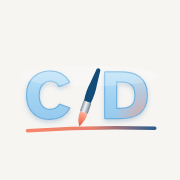
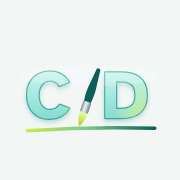
Give C/D its own tear-film palette
Teal glass logo with a fluorescein yellow-green glow, teal buttons and
selection tones, with matching icons, preview image and app colours.
The clinical colour code on the chart is unchanged.

Claude-Session: https://claude.ai/code/session_01DeznFUEiZrXsvmLukoU2jM

diff --git a/index.html b/index.html
@@ -5,8 +5,8 @@
 <meta name="viewport" content="width=device-width, initial-scale=1, viewport-fit=cover">
 <title>C/D</title>
 <meta name="description" content="Corneal drawing in the standard slit-lamp colour code: ulcers traced by finger, thinning carved in cross-section, width × height dimensions, the 1-2-3 rule, microbiology with sensitivities, QR codes that redraw a cornea on any device, and an auto-written note. Works offline.">
-<meta name="theme-color" content="#F6F5F2" media="(prefers-color-scheme: light)">
-<meta name="theme-color" content="#0E1620" media="(prefers-color-scheme: dark)">
+<meta name="theme-color" content="#F2F7F6" media="(prefers-color-scheme: light)">
+<meta name="theme-color" content="#0B1A1B" media="(prefers-color-scheme: dark)">
 <link rel="manifest" href="manifest.webmanifest">
 <link rel="icon" href="icons/favicon-32.png" sizes="32x32" type="image/png">
 <link rel="icon" href="icons/icon-192.png" sizes="192x192" type="image/png">
@@ -26,7 +26,7 @@
 <style>
 :root{color-scheme:light;box-sizing:border-box;padding-top:env(safe-area-inset-top,0px);padding-bottom:env(safe-area-inset-bottom,0px)}
 html{scroll-padding-top:env(safe-area-inset-top,0px)}
-body{margin:0;padding:0;font:14px -apple-system,BlinkMacSystemFont,sans-serif;background:#F6F5F2;color:#13324F}
+body{margin:0;padding:0;font:14px -apple-system,BlinkMacSystemFont,sans-serif;background:#F2F7F6;color:#13324F}
 img{max-width:100%}
 [hidden]:not([hidden=until-found i]){display:none!important}
 @font-face { font-family: "Atkinson Hyperlegible"; font-style: normal; font-weight: 400; font-display: swap; src: url(fonts/atkinson-hyperlegible-latin-400-normal.woff2) format("woff2"); }
@@ -38,49 +38,51 @@ img{max-width:100%}
 </head>
 <body>
 <style>
-/* Layout: the R/D exam-room clipboard — corneal chart is the hero on the left, the dictation console on the right; stacks on phones. */
+/* Layout: exam-room clipboard — corneal chart is the hero on the left, the dictation console on the right; stacks on phones.
+   Palette "tear film": clear teal for the ocular surface, a fluorescein yellow-green glow as the accent. */
 :root {
-  --bg: #F6F5F2;
+  --bg: #F2F7F6;
   --surface: #FFFFFF;
-  --surface-2: #FAF9F6;
-  --ink: #13324F;
-  --ink-2: #44566A;
-  --muted: #6E7C8A;
-  --line: #E3E0D8;
-  --line-2: #EFECE6;
-  --navy: #124C78;
-  --coral: #EF7A5F;
-  --red-hi: #FF8E7A;
-  --red-lo: #DE4239;
-  --focus: #2C66C4;
+  --surface-2: #F8FBFA;
+  --ink: #0F3B40;
+  --ink-2: #3E5C60;
+  --muted: #687F81;
+  --line: #D9E5E2;
+  --line-2: #E7EFED;
+  --navy: #0D6E68;          /* primary: deep tear-film teal */
+  --coral: #C9A20E;         /* accent: fluorescein gold, for small marks */
+  --red-hi: #43C9BC;        /* glass buttons, top */
+  --red-lo: #0E8B83;        /* glass buttons, bottom */
+  --glow: #D8EE5A;          /* fluorescein glow */
+  --focus: #127C8C;
   --ok: #2F7A4B;
   --ok-bg: #E8F4EC;
   --warn: #9A5B0E;
   --warn-bg: #FFF4E2;
-  --chip-bg: #F2F6FB;
-  --sel-bg: #FFF1DC;
-  --sel-line: #E4A13E;
-  --sel-ink: #7A4A0B;
+  --chip-bg: #E9F5F2;
+  --sel-bg: #FBF8D9;
+  --sel-line: #C9B22A;
+  --sel-ink: #5E5208;
   --paper: #FFFDF8;
-  --logo-script: #124C78;
-  --shadow: 0 1px 2px rgba(19, 50, 79, 0.06), 0 8px 24px rgba(19, 50, 79, 0.06);
+  --logo-script: #0D5E59;
+  --shadow: 0 1px 2px rgba(13, 70, 66, 0.06), 0 8px 24px rgba(13, 70, 66, 0.07);
   --font-ui: "Atkinson Hyperlegible", "Segoe UI", system-ui, -apple-system, sans-serif;
   --font-mono: "IBM Plex Mono", ui-monospace, SFMono-Regular, Menlo, Consolas, monospace;
   --radius: 14px;
 }
 @media (prefers-color-scheme: dark) {
   :root:not([data-theme="light"]) {
-    --bg: #0E1620; --surface: #15202C; --surface-2: #1A2735; --ink: #E8EFF6; --ink-2: #B9C6D3; --muted: #8C9BAA;
-    --line: #2A3847; --line-2: #223040; --navy: #9FD0F5; --focus: #7DB6F2; --ok: #7CC99A; --ok-bg: #16301F; --warn: #F0B866; --warn-bg: #2E2414;
-    --chip-bg: #1C2A39; --sel-bg: #3A2A12; --sel-line: #E4A13E; --sel-ink: #F6CF93; --logo-script: #CFE6FA;
+    --bg: #0B1A1B; --surface: #112628; --surface-2: #163033; --ink: #E4F3F1; --ink-2: #B4CECB; --muted: #86A2A0;
+    --line: #24413F; --line-2: #1C3634; --navy: #7FDCD1; --coral: #E3D25A; --focus: #6FD3E0; --ok: #7CC99A; --ok-bg: #16301F; --warn: #F0B866; --warn-bg: #2E2414;
+    --chip-bg: #183634; --sel-bg: #33300F; --sel-line: #D9C93A; --sel-ink: #F2E99A; --logo-script: #CFF3EE;
     --shadow: 0 1px 2px rgba(0,0,0,0.3), 0 8px 24px rgba(0,0,0,0.25);
     color-scheme: dark;
   }
 }
 :root[data-theme="dark"] {
-  --bg: #0E1620; --surface: #15202C; --surface-2: #1A2735; --ink: #E8EFF6; --ink-2: #B9C6D3; --muted: #8C9BAA;
-  --line: #2A3847; --line-2: #223040; --navy: #9FD0F5; --focus: #7DB6F2; --ok: #7CC99A; --ok-bg: #16301F; --warn: #F0B866; --warn-bg: #2E2414;
-  --chip-bg: #1C2A39; --sel-bg: #3A2A12; --sel-line: #E4A13E; --sel-ink: #F6CF93; --logo-script: #CFE6FA;
+  --bg: #0B1A1B; --surface: #112628; --surface-2: #163033; --ink: #E4F3F1; --ink-2: #B4CECB; --muted: #86A2A0;
+  --line: #24413F; --line-2: #1C3634; --navy: #7FDCD1; --coral: #E3D25A; --focus: #6FD3E0; --ok: #7CC99A; --ok-bg: #16301F; --warn: #F0B866; --warn-bg: #2E2414;
+  --chip-bg: #183634; --sel-bg: #33300F; --sel-line: #D9C93A; --sel-ink: #F2E99A; --logo-script: #CFF3EE;
   --shadow: 0 1px 2px rgba(0,0,0,0.3), 0 8px 24px rgba(0,0,0,0.25);
   color-scheme: dark;
 }
@@ -119,7 +121,7 @@ h2 { font-size: 13px; letter-spacing: 0.08em; text-transform: uppercase; color: 
 .tool:disabled { opacity: 0.45; cursor: default; }
 .tool svg { width: 17px; height: 17px; flex: none; }
 .tool[aria-pressed="true"] { background: var(--sel-bg); border-color: var(--sel-line); color: var(--sel-ink); }
-.tool.photo { background: linear-gradient(180deg, var(--red-hi), var(--red-lo)); color: #fff; border-color: rgba(255,255,255,0.5); font-weight: 700; box-shadow: 0 4px 12px rgba(222, 66, 57, 0.25); }
+.tool.photo { background: linear-gradient(180deg, var(--red-hi), var(--red-lo)); color: #fff; border-color: rgba(255,255,255,0.5); font-weight: 700; box-shadow: 0 4px 12px rgba(14, 139, 131, 0.25); }
 .tools-gap { flex: 1; }
 .tool { position: relative; }
 .vh { position: absolute; inset: 0; width: 100%; height: 100%; opacity: 0; cursor: pointer; font-size: 0; }
@@ -129,7 +131,7 @@ h2 { font-size: 13px; letter-spacing: 0.08em; text-transform: uppercase; color: 
 .stage { position: relative; -webkit-user-select: none; user-select: none; -webkit-touch-callout: none; }
 #chart { width: 100%; max-width: 100%; aspect-ratio: 1; display: block; border-radius: 14px; touch-action: none; background: var(--paper); }
 .hint { position: absolute; top: 10px; left: 50%; transform: translateX(-50%); z-index: 2; display: flex; align-items: center; gap: 8px; width: max-content; max-width: calc(100% - 20px);
-  background: rgba(18, 63, 102, 0.92); color: #fff; border-radius: 999px; padding: 6px 7px 6px 14px; font-size: 13.5px; font-weight: 700; line-height: 1.3; box-shadow: 0 4px 14px rgba(19, 50, 79, 0.2); pointer-events: none; }
+  background: rgba(9, 78, 74, 0.93); color: #fff; border-radius: 999px; padding: 6px 7px 6px 14px; font-size: 13.5px; font-weight: 700; line-height: 1.3; box-shadow: 0 4px 14px rgba(13, 70, 66, 0.2); pointer-events: none; }
 .hint button { pointer-events: auto; flex: none; border: 0; background: rgba(255, 255, 255, 0.2); color: #fff; border-radius: 999px; padding: 4px 11px; font-weight: 700; font-size: 13px; cursor: pointer; }
 
 .bar { border-radius: 12px; padding: 9px 10px 9px 14px; font-size: 14px; display: flex; gap: 10px; align-items: center; justify-content: space-between; flex-wrap: wrap; }
@@ -212,7 +214,7 @@ h2 { font-size: 13px; letter-spacing: 0.08em; text-transform: uppercase; color: 
 .cmd-actions { display: flex; gap: 10px; flex-wrap: wrap; align-items: center; }
 .glass { position: relative; overflow: hidden; border: 1px solid rgba(255, 255, 255, 0.55); border-radius: 12px; padding: 10px 20px; min-height: 46px; color: #fff; font-weight: 700; font-size: 16px; cursor: pointer;
   display: inline-flex; align-items: center; gap: 8px; background: linear-gradient(180deg, var(--red-hi) 0%, var(--red-lo) 100%);
-  box-shadow: 0 6px 18px rgba(222, 66, 57, 0.28), inset 0 -2px 6px rgba(120, 20, 10, 0.18), inset 0 1px 0 rgba(255, 255, 255, 0.6); text-shadow: 0 1px 1px rgba(120, 20, 10, 0.35); }
+  box-shadow: 0 6px 18px rgba(14, 139, 131, 0.28), inset 0 -2px 6px rgba(4, 64, 60, 0.18), inset 0 1px 0 rgba(255, 255, 255, 0.6); text-shadow: 0 1px 1px rgba(4, 64, 60, 0.35); }
 .glass::before { content: ""; position: absolute; inset: 1px 1px 52% 1px; border-radius: 11px 11px 40% 40% / 11px 11px 14px 14px; background: linear-gradient(180deg, rgba(255,255,255,0.5), rgba(255,255,255,0.06)); pointer-events: none; }
 .btn-line { border: 1px solid var(--line); background: var(--surface); border-radius: 12px; padding: 9px 14px; min-height: 44px; cursor: pointer; font-weight: 700; color: var(--navy); }
 .btn-line:hover { border-color: var(--focus); }
@@ -293,7 +295,7 @@ h2 { font-size: 13px; letter-spacing: 0.08em; text-transform: uppercase; color: 
 .scan-opts { display: grid; gap: 8px; }
 .scan-opt { position: relative; display: flex; align-items: center; gap: 14px; width: 100%; text-align: left; border: 1.5px solid var(--line); background: var(--surface-2); border-radius: 14px; padding: 14px 16px; cursor: pointer; color: var(--ink); }
 .scan-opt:hover, .scan-opt:focus-within { border-color: var(--focus); }
-.scan-opt svg { width: 30px; height: 30px; flex: none; color: var(--coral); }
+.scan-opt svg { width: 30px; height: 30px; flex: none; color: var(--navy); }
 .scan-opt span { display: grid; gap: 2px; min-width: 0; }
 .scan-opt b { font-size: 17px; }
 .scan-opt small { font-size: 13px; color: var(--muted); line-height: 1.35; }
@@ -308,7 +310,7 @@ kbd { font-family: var(--font-mono); font-size: 11.5px; border: 1px solid var(--
 .snip-bar .acts { display: flex; gap: 6px; }
 .snip-stage { position: relative; display: grid; place-items: center; overflow: hidden; padding: 0 16px 16px; min-height: 0; }
 #snipCv { max-width: 100%; max-height: 100%; cursor: crosshair; touch-action: none; box-shadow: 0 0 0 1px rgba(255,255,255,0.3); }
-.snip-box { position: absolute; border: 2px solid #FF8E7A; background: rgba(255, 142, 122, 0.15); pointer-events: none; }
+.snip-box { position: absolute; border: 2px solid #43C9BC; background: rgba(67, 201, 188, 0.15); pointer-events: none; }
 .qr-meta span { font-family: var(--font-mono); font-size: 12px; background: var(--chip-bg); color: var(--ink-2); border-radius: 999px; padding: 3px 10px; }
 </style>
 
@@ -317,13 +319,13 @@ kbd { font-family: var(--font-mono); font-size: 11.5px; border: 1px solid var(--
     <div class="brand">
       <svg class="logo" xmlns="http://www.w3.org/2000/svg" viewBox="-8 -4 300 192" role="img" aria-label="C/D">
         <defs>
-          <linearGradient id="cdG" x1="0" y1="0" x2="0" y2="1"><stop offset="0" stop-color="#D3EDFB"/><stop offset=".5" stop-color="#A3D3F2"/><stop offset="1" stop-color="#8CC3EA"/></linearGradient>
-          <radialGradient id="cdC" cx=".9" cy=".95" r=".7"><stop offset="0" stop-color="#FA8E72" stop-opacity=".9"/><stop offset=".6" stop-color="#F7A08C" stop-opacity=".3"/><stop offset="1" stop-color="#F7A08C" stop-opacity="0"/></radialGradient>
-          <linearGradient id="cdRim" x1="0" y1="0" x2="1" y2="1"><stop offset="0" stop-color="#78B7E2"/><stop offset=".78" stop-color="#6EAEDC"/><stop offset="1" stop-color="#E9775E"/></linearGradient>
-          <linearGradient id="cdLine" x1="0" y1="0" x2="1" y2="0"><stop offset="0" stop-color="#F6866B"/><stop offset=".5" stop-color="#E9806C"/><stop offset="1" stop-color="#2B5E8C"/></linearGradient>
+          <linearGradient id="cdG" x1="0" y1="0" x2="0" y2="1"><stop offset="0" stop-color="#E4FBF7"/><stop offset=".5" stop-color="#A6E9DF"/><stop offset="1" stop-color="#6ED0C4"/></linearGradient>
+          <radialGradient id="cdC" cx=".9" cy=".95" r=".7"><stop offset="0" stop-color="#D6F04E" stop-opacity=".95"/><stop offset=".6" stop-color="#E6F58C" stop-opacity=".35"/><stop offset="1" stop-color="#E6F58C" stop-opacity="0"/></radialGradient>
+          <linearGradient id="cdRim" x1="0" y1="0" x2="1" y2="1"><stop offset="0" stop-color="#4FBBB0"/><stop offset=".72" stop-color="#2FA197"/><stop offset="1" stop-color="#B7D33A"/></linearGradient>
+          <linearGradient id="cdLine" x1="0" y1="0" x2="1" y2="0"><stop offset="0" stop-color="#CFE74E"/><stop offset=".45" stop-color="#7CCB8C"/><stop offset="1" stop-color="#0D5E59"/></linearGradient>
           <linearGradient id="cdFerr" x1="0" y1="0" x2="1" y2="0"><stop offset="0" stop-color="#7F8C99"/><stop offset=".42" stop-color="#EEF2F5"/><stop offset=".62" stop-color="#C7D0D8"/><stop offset="1" stop-color="#6F7C89"/></linearGradient>
-          <linearGradient id="cdBris" x1="0" y1="1" x2="0" y2="0"><stop offset="0" stop-color="#E35F45"/><stop offset=".55" stop-color="#F6866B"/><stop offset="1" stop-color="#F9B19E"/></linearGradient>
-          <filter id="cdSh" x="-10%" y="-10%" width="125%" height="140%"><feDropShadow dx="0" dy="5" stdDeviation="5" flood-color="#4F86B3" flood-opacity=".3"/></filter>
+          <linearGradient id="cdBris" x1="0" y1="1" x2="0" y2="0"><stop offset="0" stop-color="#A9C42C"/><stop offset=".55" stop-color="#D2E957"/><stop offset="1" stop-color="#EEF7B4"/></linearGradient>
+          <filter id="cdSh" x="-10%" y="-10%" width="125%" height="140%"><feDropShadow dx="0" dy="5" stdDeviation="5" flood-color="#2F8F87" flood-opacity=".3"/></filter>
         </defs>
         <g filter="url(#cdSh)" font-family="Atkinson Hyperlegible, Segoe UI, sans-serif" font-weight="700" font-size="146">
           <text x="2" y="151" fill="url(#cdG)" stroke="url(#cdRim)" stroke-width="5" paint-order="stroke" stroke-linejoin="round">C</text>
@@ -504,7 +506,7 @@ const COL = {
   defect: '#1E9B4A', defectFill: 'rgba(46,170,90,0.22)',
   inf: '#C98F12', infFill: 'rgba(244,196,48,0.55)',
   vessel: '#D3302A', edema: '#2E6FD1', pigment: '#8A5A2B', ink: '#1F2328', paper: '#FFFDF8',
-  hypo: 'rgba(242,198,56,0.88)', hyphema: 'rgba(196,36,36,0.8)', navy: '#124C78'
+  hypo: 'rgba(242,198,56,0.88)', hyphema: 'rgba(196,36,36,0.8)', navy: '#0D5E59'
 };
 
 /* ---------- object types ---------- */
@@ -798,7 +800,7 @@ function paint(g, Wd, dpr, interactive) {
   }
   g.setTransform(dpr * Kk, 0, 0, -dpr * Kk, dpr * Cc, dpr * Cc);
   // limbus & landmarks
-  g.beginPath(); g.arc(0, 0, LIM, 0, Math.PI * 2); g.strokeStyle = '#1F3A56'; g.lineWidth = px * 2.2; g.stroke();
+  g.beginPath(); g.arc(0, 0, LIM, 0, Math.PI * 2); g.strokeStyle = '#1C4A4D'; g.lineWidth = px * 2.2; g.stroke();
   g.beginPath(); g.arc(0, 0, LIM + .45, 0, Math.PI * 2); g.strokeStyle = 'rgba(31,58,86,0.18)'; g.lineWidth = px; g.stroke();
   if (showZone) {
     g.setLineDash([px * 3, px * 5]);
@@ -807,7 +809,7 @@ function paint(g, Wd, dpr, interactive) {
     g.setLineDash([]);
     g.beginPath(); g.moveTo(-.18, 0); g.lineTo(.18, 0); g.moveTo(0, -.18); g.lineTo(0, .18); g.strokeStyle = 'rgba(18,76,120,0.45)'; g.lineWidth = px * 1.2; g.stroke();
   }
-  for (let h = 1; h <= 12; h++) { const a = angOf(h); g.beginPath(); g.moveTo(Math.cos(a) * LIM, Math.sin(a) * LIM); g.lineTo(Math.cos(a) * (LIM + .3), Math.sin(a) * (LIM + .3)); g.strokeStyle = '#1F3A56'; g.lineWidth = px * 1.4; g.stroke(); }
+  for (let h = 1; h <= 12; h++) { const a = angOf(h); g.beginPath(); g.moveTo(Math.cos(a) * LIM, Math.sin(a) * LIM); g.lineTo(Math.cos(a) * (LIM + .3), Math.sin(a) * (LIM + .3)); g.strokeStyle = '#1C4A4D'; g.lineWidth = px * 1.4; g.stroke(); }
   const list = [...S.objs].sort((a, b) => (ORDER[a.type] ?? 5) - (ORDER[b.type] ?? 5));
   list.forEach(o => drawObj(g, o, px));
   if (wiz && interactive === true) {
@@ -823,19 +825,19 @@ function paint(g, Wd, dpr, interactive) {
   g.setTransform(dpr, 0, 0, dpr, 0, 0);
   const P = (x, y) => [Cc + x * Kk, Cc - y * Kk];
   g.font = '700 13px "IBM Plex Mono", ui-monospace, monospace'; g.textAlign = 'center'; g.textBaseline = 'middle';
-  for (let h = 1; h <= 12; h++) { const a = angOf(h), [x, y] = P(Math.cos(a) * (LIM + .95), Math.sin(a) * (LIM + .95)); g.fillStyle = '#3B5470'; g.fillText(String(h), x, y); }
+  for (let h = 1; h <= 12; h++) { const a = angOf(h), [x, y] = P(Math.cos(a) * (LIM + .95), Math.sin(a) * (LIM + .95)); g.fillStyle = '#2E5A5C'; g.fillText(String(h), x, y); }
   g.font = '700 12px "Atkinson Hyperlegible", system-ui, sans-serif';
   const nasalRight = S.eye === 'OD';
-  g.fillStyle = '#6E7C8A';
+  g.fillStyle = '#687F81';
   g.fillText(nasalRight ? 'temporal' : 'nasal', Wd * .09, Wd - 14); g.fillText(nasalRight ? 'nasal' : 'temporal', Wd * .91, Wd - 14);
-  g.textAlign = 'left'; g.font = '700 15px "Atkinson Hyperlegible", system-ui, sans-serif'; g.fillStyle = '#124C78';
+  g.textAlign = 'left'; g.font = '700 15px "Atkinson Hyperlegible", system-ui, sans-serif'; g.fillStyle = '#0D5E59';
   if (interactive === true) g.fillText(S.eye, 12, 18);
-  g.textAlign = 'right'; g.font = '400 11px "Atkinson Hyperlegible", system-ui, sans-serif'; g.fillStyle = '#6E7C8A';
+  g.textAlign = 'right'; g.font = '400 11px "Atkinson Hyperlegible", system-ui, sans-serif'; g.fillStyle = '#687F81';
   g.fillText(S.eye === 'OD' ? 'right eye, examiner view' : 'left eye, examiner view', Wd - 10, 16);
   // labels and thinning tags
   g.textAlign = 'center';
   S.objs.forEach(o => {
-    if (o.type === 'label') { const [x, y] = P(o.x, o.y); g.font = '700 14px "Atkinson Hyperlegible", system-ui, sans-serif'; pill(g, x, y, o.text || 'Label', '#124C78', 'rgba(255,253,248,0.9)'); }
+    if (o.type === 'label') { const [x, y] = P(o.x, o.y); g.font = '700 14px "Atkinson Hyperlegible", system-ui, sans-serif'; pill(g, x, y, o.text || 'Label', '#0D5E59', 'rgba(255,253,248,0.9)'); }
     if (o.type === 'perf' && o.seidel !== 'na') { const [x, y] = P(o.x, o.y + o.r + .55); g.font = '700 11px "IBM Plex Mono", monospace'; pill(g, x, y, o.seidel === 'pos' ? 'Seidel +' : 'Seidel −', '#111', 'rgba(255,253,248,0.92)'); }
     const tag = thinTag(o); if (tag) { const [mx, my] = tagPos(o); const [x, y] = P(mx, my); g.font = '700 12px "IBM Plex Mono", monospace'; pill(g, x, y, tag, '#fff', '#1F2328'); }
   });
@@ -938,7 +940,7 @@ function drawSelection(g, P, Kk) {
   handles(o).forEach(h => {
     const [x, y] = P(h.p[0], h.p[1]);
     g.beginPath(); g.arc(x, y, h.rot ? 8 : 9, 0, Math.PI * 2);
-    g.fillStyle = h.rot ? '#E4A13E' : '#fff'; g.fill(); g.lineWidth = 2.2; g.strokeStyle = h.color || '#124C78'; g.stroke();
+    g.fillStyle = h.rot ? '#E4A13E' : '#fff'; g.fill(); g.lineWidth = 2.2; g.strokeStyle = h.color || '#0D5E59'; g.stroke();
     if (h.rot) { g.beginPath(); g.arc(x, y, 3.5, -2.2, 1.6); g.strokeStyle = '#fff'; g.lineWidth = 1.6; g.stroke(); }
   });
   g.restore();
@@ -1154,17 +1156,17 @@ function iconCanvas(type) {
   const c = document.createElement('canvas'); const s = 34, d = 2; c.width = s * d; c.height = s * d; const g = c.getContext('2d');
   g.fillStyle = COL.paper; g.fillRect(0, 0, s * d, s * d);
   if (type === 'pen' || type === 'erase' || type === 'label') {
-    g.setTransform(d, 0, 0, d, 0, 0); g.strokeStyle = '#124C78'; g.lineWidth = 2; g.lineCap = 'round'; g.lineJoin = 'round';
+    g.setTransform(d, 0, 0, d, 0, 0); g.strokeStyle = '#0D5E59'; g.lineWidth = 2; g.lineCap = 'round'; g.lineJoin = 'round';
     g.beginPath();
     if (type === 'pen') { g.moveTo(8, 25); g.bezierCurveTo(12, 10, 18, 28, 26, 9); }
     else if (type === 'erase') { g.moveTo(9, 22); g.lineTo(18, 13); g.lineTo(25, 20); g.lineTo(19, 26); g.lineTo(12, 26); g.closePath(); g.moveTo(14, 26); g.lineTo(26, 26); }
-    else { g.font = '700 17px "Atkinson Hyperlegible", sans-serif'; g.fillStyle = '#124C78'; g.textAlign = 'center'; g.textBaseline = 'middle'; g.fillText('Aa', 17, 18); }
+    else { g.font = '700 17px "Atkinson Hyperlegible", sans-serif'; g.fillStyle = '#0D5E59'; g.textAlign = 'center'; g.textBaseline = 'middle'; g.fillText('Aa', 17, 18); }
     g.stroke(); return c;
   }
   const whole = ['lthin', 'vessels', 'hypopyon', 'hyphema'].includes(type);
   const k = whole ? (s / 2 - 2) / LIM : 9.5;
   g.setTransform(d * k, 0, 0, -d * k, d * s / 2, d * s / 2);
-  if (whole) { g.beginPath(); g.arc(0, 0, LIM, 0, Math.PI * 2); g.strokeStyle = '#1F3A56'; g.lineWidth = 1 / k; g.stroke(); }
+  if (whole) { g.beginPath(); g.arc(0, 0, LIM, 0, Math.PI * 2); g.strokeStyle = '#1C4A4D'; g.lineWidth = 1 / k; g.stroke(); }
   const o = makeObj(type, 0, 0); o.seed = 1234;
   const demo = { ulcer: { rx: 1.4, ry: 1.2, dRx: .95, dRy: .8, thin: 40 }, infiltrate: { rx: 1.2, ry: 1, edge: 'feathery', sat: 2 }, defect: { rx: 1.4, ry: 1.1 }, dendrite: { len: 3, rot: 25 }, thinning: { rx: 1.4, ry: 1.1, thin: 60 },
     lthin: { h1: 1, h2: 4, w: 1.6, thin: 60 }, scar: { rx: 1.4, ry: 1.1 }, edema: { rx: 1.5, ry: 1.3 }, folds: { rx: 1.5, ry: 1.3 }, kp: { rx: 1.5, ry: 1.3 }, vessels: { h1: 4, h2: 8, reach: 2.4 }, hypopyon: { h: 3 }, hyphema: { h: 3 },
@@ -1636,12 +1638,12 @@ function renderProfile(g, o, w, h, opt) {
   const line = (off, col, lw, dash, clipEx) => { g.beginPath(); let on = false; for (let x = 0; x <= w; x += 2) { const y = ant(x) + off; const cut = clipEx && floor(x) > y - .5; if (cut) { on = false; continue; } on ? g.lineTo(x, y) : g.moveTo(x, y); on = true; } g.strokeStyle = col; g.lineWidth = lw; g.setLineDash(dash || []); g.stroke(); g.setLineDash([]); };
   line(0, '#2EAA5A', 2.5, null, true);
   line(5, '#9FB3C4', 1, [3, 3], true);
-  if (o.perf) { const gap = Math.max(6, exPx * .35); g.save(); g.beginPath(); g.rect(0, 0, cx - gap, h); g.rect(cx + gap, 0, w - cx - gap, h); g.clip(); line(TH, '#1F3A56', 2.2); line(TH + 3, '#8A5A2B', 1.2); g.restore(); }
-  else { line(TH, '#1F3A56', 2.2); line(TH + 3, '#8A5A2B', 1.2); }
+  if (o.perf) { const gap = Math.max(6, exPx * .35); g.save(); g.beginPath(); g.rect(0, 0, cx - gap, h); g.rect(cx + gap, 0, w - cx - gap, h); g.clip(); line(TH, '#1C4A4D', 2.2); line(TH + 3, '#8A5A2B', 1.2); g.restore(); }
+  else { line(TH, '#1C4A4D', 2.2); line(TH + 3, '#8A5A2B', 1.2); }
   // excavation floor
   if (thinD > 0) { g.beginPath(); for (let x = cx - exPx; x <= cx + exPx; x += 2) { const y = Math.min(floor(x), ant(x) + TH); x === cx - exPx ? g.moveTo(x, y) : g.lineTo(x, y); } g.strokeStyle = '#1F2328'; g.lineWidth = 1.6; g.stroke(); }
   // labels
-  g.fillStyle = '#6E7C8A'; g.font = '700 10.5px "Atkinson Hyperlegible", sans-serif'; g.textAlign = 'right';
+  g.fillStyle = '#687F81'; g.font = '700 10.5px "Atkinson Hyperlegible", sans-serif'; g.textAlign = 'right';
   g.fillText('epithelium', w - 8, ant(w - 8) - 7); g.fillText('Descemet / endothelium', w - 8, ant(w - 8) + TH + 13);
   // scale ticks (25 / 50 / 75 %)
   g.textAlign = 'left'; g.font = '600 10px "IBM Plex Mono", monospace';
@@ -1651,7 +1653,7 @@ function renderProfile(g, o, w, h, opt) {
     const ip = 'infDepth' in o ? infW * kx : 0, y0 = ant(cx), yF = ant(cx) + Math.min(thinD, TH), yE = ant(cx) + TH;
     const bx = cx + Math.max(exPx, ip) + 14;
     if (thinD > 0) vBracket(g, bx, y0, o.perf ? yE : yF, '#1F2328', o.perf ? 'perforated' : o.thin >= 100 ? 'DMC' : o.thin + '% thinned', 1);
-    if (thinD > 0 && !o.perf && o.thin < 100) vBracket(g, bx + 4, yF, yE, '#6E7C8A', (100 - o.thin) + '% left', 1);
+    if (thinD > 0 && !o.perf && o.thin < 100) vBracket(g, bx + 4, yF, yE, '#687F81', (100 - o.thin) + '% left', 1);
     if ('infDepth' in o) vBracket(g, cx - Math.max(exPx, ip) - 14, y0, y0 + o.infDepth / 100 * TH, '#9A6B00', 'infiltrate ' + o.infDepth + '%', -1);
     if (exPx > 4 && thinD > 0) {
       const yT = T0 - 18; g.strokeStyle = '#1E7F3E'; g.fillStyle = '#1E7F3E'; g.lineWidth = 1.4;
@@ -2059,22 +2061,22 @@ function microPanel(g, x, y, w, draw) {
   const notes = S.microNotes || [], ms = S.micro || [];
   let cy = y;
   const T_ = (txt, font, col, xx, yy, align = 'left') => { if (!draw) return; g.font = font; g.fillStyle = col; g.textAlign = align; g.textBaseline = 'middle'; g.fillText(txt, xx, yy); };
-  T_('MICROBIOLOGY', '700 15px "Atkinson Hyperlegible", sans-serif', '#6E7C8A', x, cy + 10); cy += 30;
+  T_('MICROBIOLOGY', '700 15px "Atkinson Hyperlegible", sans-serif', '#687F81', x, cy + 10); cy += 30;
   if (notes.length) {
     g.font = '400 15px "Atkinson Hyperlegible", sans-serif';
-    wrapLines(g, notes.join(' · '), w).forEach(l => { T_(l, '400 15px "Atkinson Hyperlegible", sans-serif', '#13324F', x, cy + 8); cy += 22; });
+    wrapLines(g, notes.join(' · '), w).forEach(l => { T_(l, '400 15px "Atkinson Hyperlegible", sans-serif', '#0F3B40', x, cy + 8); cy += 22; });
     cy += 6;
   }
-  if (!ms.length && !notes.length) { T_('No organisms recorded.', '400 15px "Atkinson Hyperlegible", sans-serif', '#6E7C8A', x, cy + 8); cy += 26; }
+  if (!ms.length && !notes.length) { T_('No organisms recorded.', '400 15px "Atkinson Hyperlegible", sans-serif', '#687F81', x, cy + 8); cy += 26; }
   ms.forEach(m => {
     // organism line: name in italics, then group and method
     g.font = 'italic 700 17px "Atkinson Hyperlegible", sans-serif';
     const nameLines = wrapLines(g, m.org, w - 10);
-    nameLines.forEach(l => { T_(l, 'italic 700 17px "Atkinson Hyperlegible", sans-serif', '#13324F', x, cy + 10); cy += 24; });
-    T_(`${GRP[m.grp] || ''}${GRP[m.grp] ? ' · ' : ''}${METHODS[m.method || 0]}`, '400 14px "Atkinson Hyperlegible", sans-serif', '#44566A', x, cy + 7); cy += 24;
+    nameLines.forEach(l => { T_(l, 'italic 700 17px "Atkinson Hyperlegible", sans-serif', '#0F3B40', x, cy + 10); cy += 24; });
+    T_(`${GRP[m.grp] || ''}${GRP[m.grp] ? ' · ' : ''}${METHODS[m.method || 0]}`, '400 14px "Atkinson Hyperlegible", sans-serif', '#3E5C60', x, cy + 7); cy += 24;
     const list = drugsOf(m).filter(d => m.sens[d]);
-    if (!drugsOf(m).length) { T_('No routine susceptibility panel.', '400 14px "Atkinson Hyperlegible", sans-serif', '#6E7C8A', x, cy + 7); cy += 28; return; }
-    if (!list.length) { T_('Sensitivities pending.', '400 14px "Atkinson Hyperlegible", sans-serif', '#6E7C8A', x, cy + 7); cy += 28; return; }
+    if (!drugsOf(m).length) { T_('No routine susceptibility panel.', '400 14px "Atkinson Hyperlegible", sans-serif', '#687F81', x, cy + 7); cy += 28; return; }
+    if (!list.length) { T_('Sensitivities pending.', '400 14px "Atkinson Hyperlegible", sans-serif', '#687F81', x, cy + 7); cy += 28; return; }
     // resistant first, then intermediate, then susceptible, in two columns
     const order = { R: 0, I: 1, S: 2 }, sorted = [...list].sort((p, q) => order[m.sens[p]] - order[m.sens[q]]);
     const colW = (w - 12) / 2, rows = Math.ceil(sorted.length / 2), rh = 25;
@@ -2084,7 +2086,7 @@ function microPanel(g, x, y, w, draw) {
       if (draw) {
         g.fillStyle = SIR_COL[v]; g.beginPath(); g.roundRect ? g.roundRect(xx, yy + 2, 26, 20, 5) : g.rect(xx, yy + 2, 26, 20); g.fill();
         g.fillStyle = '#fff'; g.font = '700 13px "IBM Plex Mono", monospace'; g.textAlign = 'center'; g.textBaseline = 'middle'; g.fillText(v, xx + 13, yy + 12.5);
-        g.font = (v === 'R' ? '700 ' : '400 ') + '14px "Atkinson Hyperlegible", sans-serif'; g.fillStyle = v === 'R' ? '#C8372D' : '#13324F'; g.textAlign = 'left';
+        g.font = (v === 'R' ? '700 ' : '400 ') + '14px "Atkinson Hyperlegible", sans-serif'; g.fillStyle = v === 'R' ? '#C8372D' : '#0F3B40'; g.textAlign = 'left';
         let name = SHORT_DRUG[d] || d; while (g.measureText(name).width > colW - 36 && name.length > 4) name = name.slice(0, -2) + '…';
         g.fillText(name, xx + 34, yy + 12.5);
       }
@@ -2097,7 +2099,7 @@ function microPanel(g, x, y, w, draw) {
       [['S', 'susceptible'], ['I', 'intermediate'], ['R', 'resistant']].forEach(([v, t]) => {
         g.fillStyle = SIR_COL[v]; g.beginPath(); g.roundRect ? g.roundRect(lx, cy, 18, 15, 4) : g.rect(lx, cy, 18, 15); g.fill();
         g.fillStyle = '#fff'; g.font = '700 10px "IBM Plex Mono", monospace'; g.textAlign = 'center'; g.fillText(v, lx + 9, cy + 8);
-        g.fillStyle = '#6E7C8A'; g.font = '400 13px "Atkinson Hyperlegible", sans-serif'; g.textAlign = 'left'; g.fillText(t, lx + 24, cy + 8);
+        g.fillStyle = '#687F81'; g.font = '400 13px "Atkinson Hyperlegible", sans-serif'; g.textAlign = 'left'; g.fillText(t, lx + 24, cy + 8);
         lx += 24 + g.measureText(t).width + 18;
       });
     }
@@ -2125,27 +2127,27 @@ async function exportPNG() {
   paint(art.getContext('2d'), size, 1, 'export-no-photo');
   g.drawImage(art, 0, 70);
   g.setTransform(1, 0, 0, 1, 0, 0); g.fillStyle = COL.paper; g.fillRect(0, 0, size, 70);
-  g.fillStyle = '#124C78'; g.font = '700 30px "Atkinson Hyperlegible", sans-serif'; g.textBaseline = 'middle'; g.fillText(`C/D · ${S.eye}`, 28, 38);
-  g.fillStyle = '#6E7C8A'; g.font = '400 20px "Atkinson Hyperlegible", sans-serif'; g.textAlign = 'right';
+  g.fillStyle = '#0D5E59'; g.font = '700 30px "Atkinson Hyperlegible", sans-serif'; g.textBaseline = 'middle'; g.fillText(`C/D · ${S.eye}`, 28, 38);
+  g.fillStyle = '#687F81'; g.font = '400 20px "Atkinson Hyperlegible", sans-serif'; g.textAlign = 'right';
   g.fillText(new Date().toLocaleDateString(undefined, { year: 'numeric', month: 'short', day: 'numeric' }) + (S.ac !== '0' ? ` · AC ${S.ac}` : ''), size - 28, 38);
   if (band) {
-    const by = size + 70; g.fillStyle = COL.paper; g.fillRect(0, by, size, band); g.fillStyle = '#E3E0D8'; g.fillRect(28, by, size - 56, 2);
+    const by = size + 70; g.fillStyle = COL.paper; g.fillRect(0, by, size, band); g.fillStyle = '#D9E5E2'; g.fillRect(28, by, size - 56, 2);
     const drawProf = (o, x0, y0) => {
-      g.textAlign = 'left'; g.textBaseline = 'middle'; g.fillStyle = '#13324F'; g.font = '700 16px "Atkinson Hyperlegible", sans-serif';
+      g.textAlign = 'left'; g.textBaseline = 'middle'; g.fillStyle = '#0F3B40'; g.font = '700 16px "Atkinson Hyperlegible", sans-serif';
       g.fillText(`${T[o.type].name}${where(o) ? ' · ' + where(o) : ''}`, x0, y0 + 10);
-      g.fillStyle = '#44566A'; g.font = '400 14px "Atkinson Hyperlegible", sans-serif';
+      g.fillStyle = '#3E5C60'; g.font = '400 14px "Atkinson Hyperlegible", sans-serif';
       g.fillText(('thin' in o ? cap(thinWords(o)) : 'No thinning') + ('infDepth' in o ? ` · infiltrate ~${o.infDepth}% deep` : ''), x0, y0 + 30);
       const pc = document.createElement('canvas'); pc.width = cellW * 2; pc.height = 190 * 2; const pg = pc.getContext('2d'); pg.setTransform(2, 0, 0, 2, 0, 0);
       renderProfile(pg, o, cellW, 190, { handle: false });
       g.drawImage(pc, x0, y0 + 44, cellW, 190);
     };
-    const head = (txt, x) => { g.textAlign = 'left'; g.textBaseline = 'middle'; g.fillStyle = '#6E7C8A'; g.font = '700 15px "Atkinson Hyperlegible", sans-serif'; g.fillText(txt, x, by + 36); };
+    const head = (txt, x) => { g.textAlign = 'left'; g.textBaseline = 'middle'; g.fillStyle = '#687F81'; g.font = '700 15px "Atkinson Hyperlegible", sans-serif'; g.fillText(txt, x, by + 36); };
     if (hasMicro) {
       const mx = profs.length ? 28 + cellW + gutter : 28;
       if (profs.length) {
         head('THINNING AND DEPTH, IN CROSS-SECTION', 28);
         profs.forEach((o, i) => drawProf(o, 28, by + 56 + i * cellH));
-        g.fillStyle = '#E3E0D8'; g.fillRect(mx - gutter / 2, by + 24, 1.5, band - 34);
+        g.fillStyle = '#D9E5E2'; g.fillRect(mx - gutter / 2, by + 24, 1.5, band - 34);
       }
       microPanel(g, mx, by + 26, profs.length ? cellW : size - 56, true);
     } else {
@@ -2155,12 +2157,12 @@ async function exportPNG() {
   }
   // footer: the note on the left, the C/D code on the right
   const fy = size + 70 + band; g.fillStyle = COL.paper; g.fillRect(0, fy, size, foot);
-  g.fillStyle = '#E3E0D8'; g.fillRect(28, fy, size - 56, 2);
+  g.fillStyle = '#D9E5E2'; g.fillRect(28, fy, size - 56, 2);
   const q = makeQR(CD_URL + '#' + await encodeState());
   const qs = 250; let textW = size - 56;
   if (q) { const qc = qrCanvas(q, qs); g.imageSmoothingEnabled = false; g.drawImage(qc, size - 28 - qs, fy + 18, qs, qs); textW = size - 56 - qs - 24;
-    g.textAlign = 'center'; g.fillStyle = '#6E7C8A'; g.font = '700 15px "Atkinson Hyperlegible", sans-serif'; g.fillText('Scan to redraw in C/D', size - 28 - qs / 2, fy + qs + 30); }
-  g.textAlign = 'left'; g.textBaseline = 'top'; g.fillStyle = '#13324F'; g.font = '400 17px "Atkinson Hyperlegible", sans-serif';
+    g.textAlign = 'center'; g.fillStyle = '#687F81'; g.font = '700 15px "Atkinson Hyperlegible", sans-serif'; g.fillText('Scan to redraw in C/D', size - 28 - qs / 2, fy + qs + 30); }
+  g.textAlign = 'left'; g.textBaseline = 'top'; g.fillStyle = '#0F3B40'; g.font = '400 17px "Atkinson Hyperlegible", sans-serif';
   const lines = wrapLines(g, sheetNote, textW); const maxL = Math.floor((foot - 30) / 22);
   lines.slice(0, maxL).forEach((l, i) => g.fillText(i === maxL - 1 && lines.length > maxL ? l + ' …' : l, 28, fy + 18 + i * 22));
   const blob = await new Promise(r => cvs.toBlob(r, 'image/png'));

diff --git a/sw.js b/sw.js
@@ -1,7 +1,7 @@
 /* C/D service worker: keeps the app working offline. The page itself is fetched fresh when online
    (so updates arrive on the next visit) and served from the cache when offline; fonts and icons
    come from the cache. Nothing is sent anywhere — this only caches the site's own files. */
-const VERSION = 'cd-394b80ebe1';
+const VERSION = 'cd-3add7f22e5';
 const SHELL = ["./", "manifest.webmanifest", "fonts/atkinson-hyperlegible-latin-400-normal.woff2", "fonts/atkinson-hyperlegible-latin-400-italic.woff2", "fonts/atkinson-hyperlegible-latin-700-normal.woff2", "fonts/ibm-plex-mono-latin-500-normal.woff2", "fonts/ibm-plex-mono-latin-600-normal.woff2", "icons/apple-touch-icon.png", "icons/favicon-32.png", "icons/icon-192.png", "icons/icon-512.png", "icons/icon-maskable-512.png"];
 self.addEventListener('install', (e) => {
   e.waitUntil(caches.open(VERSION).then((c) => c.addAll(SHELL)).then(() => self.skipWaiting()));
